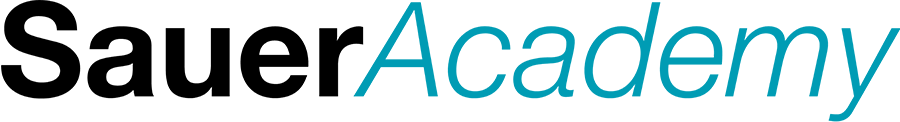
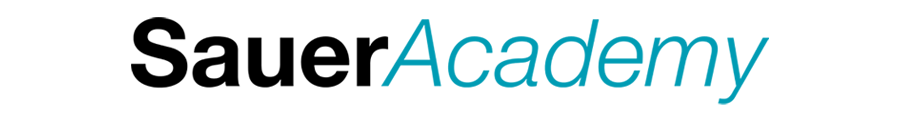
Upgrading dependencies and upgrade splashscreen in android 12+.

diff --git a/lib/main.dart b/lib/main.dart
@@ -86,5 +86,5 @@ void _initialization() async {
   await Future.delayed(const Duration(seconds: 2));
 
   // Dismiss the splash
-  FlutterNativeSplash.remove();
+  //FlutterNativeSplash.remove();
 }
